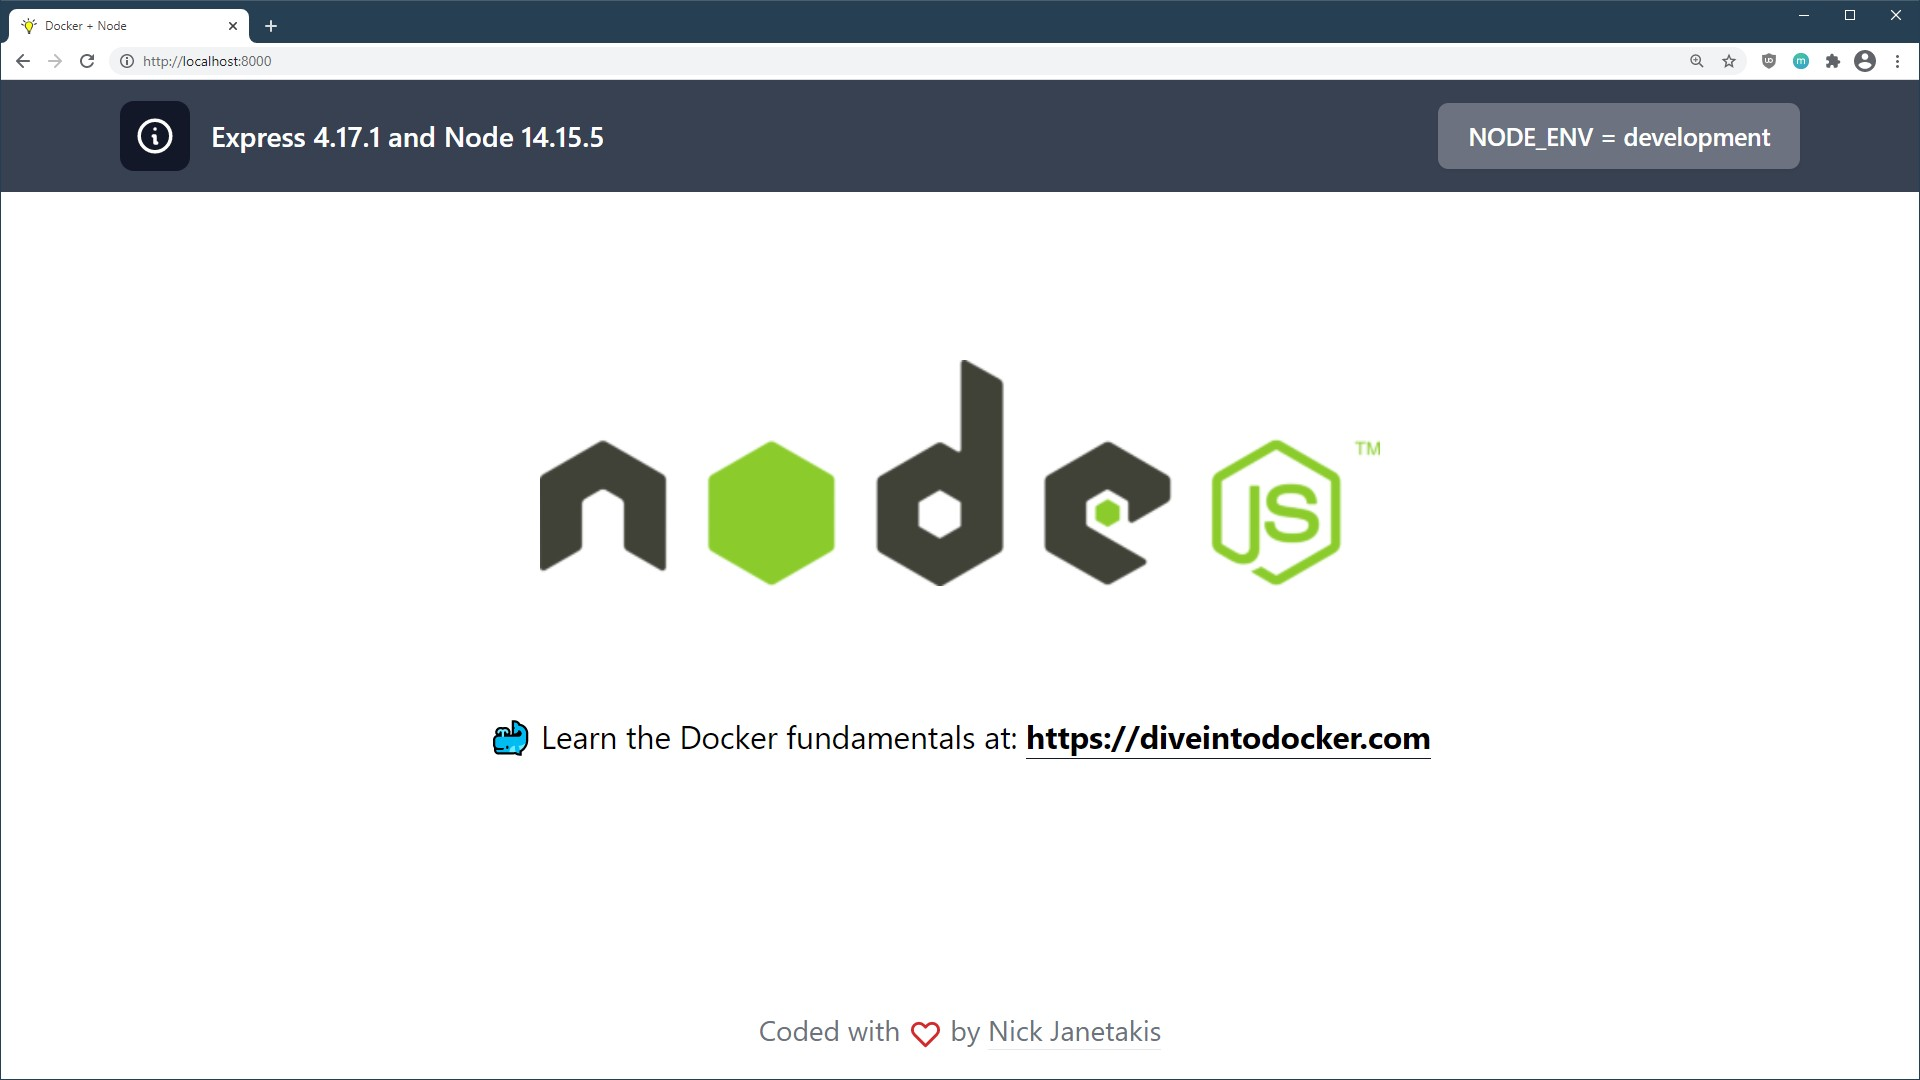
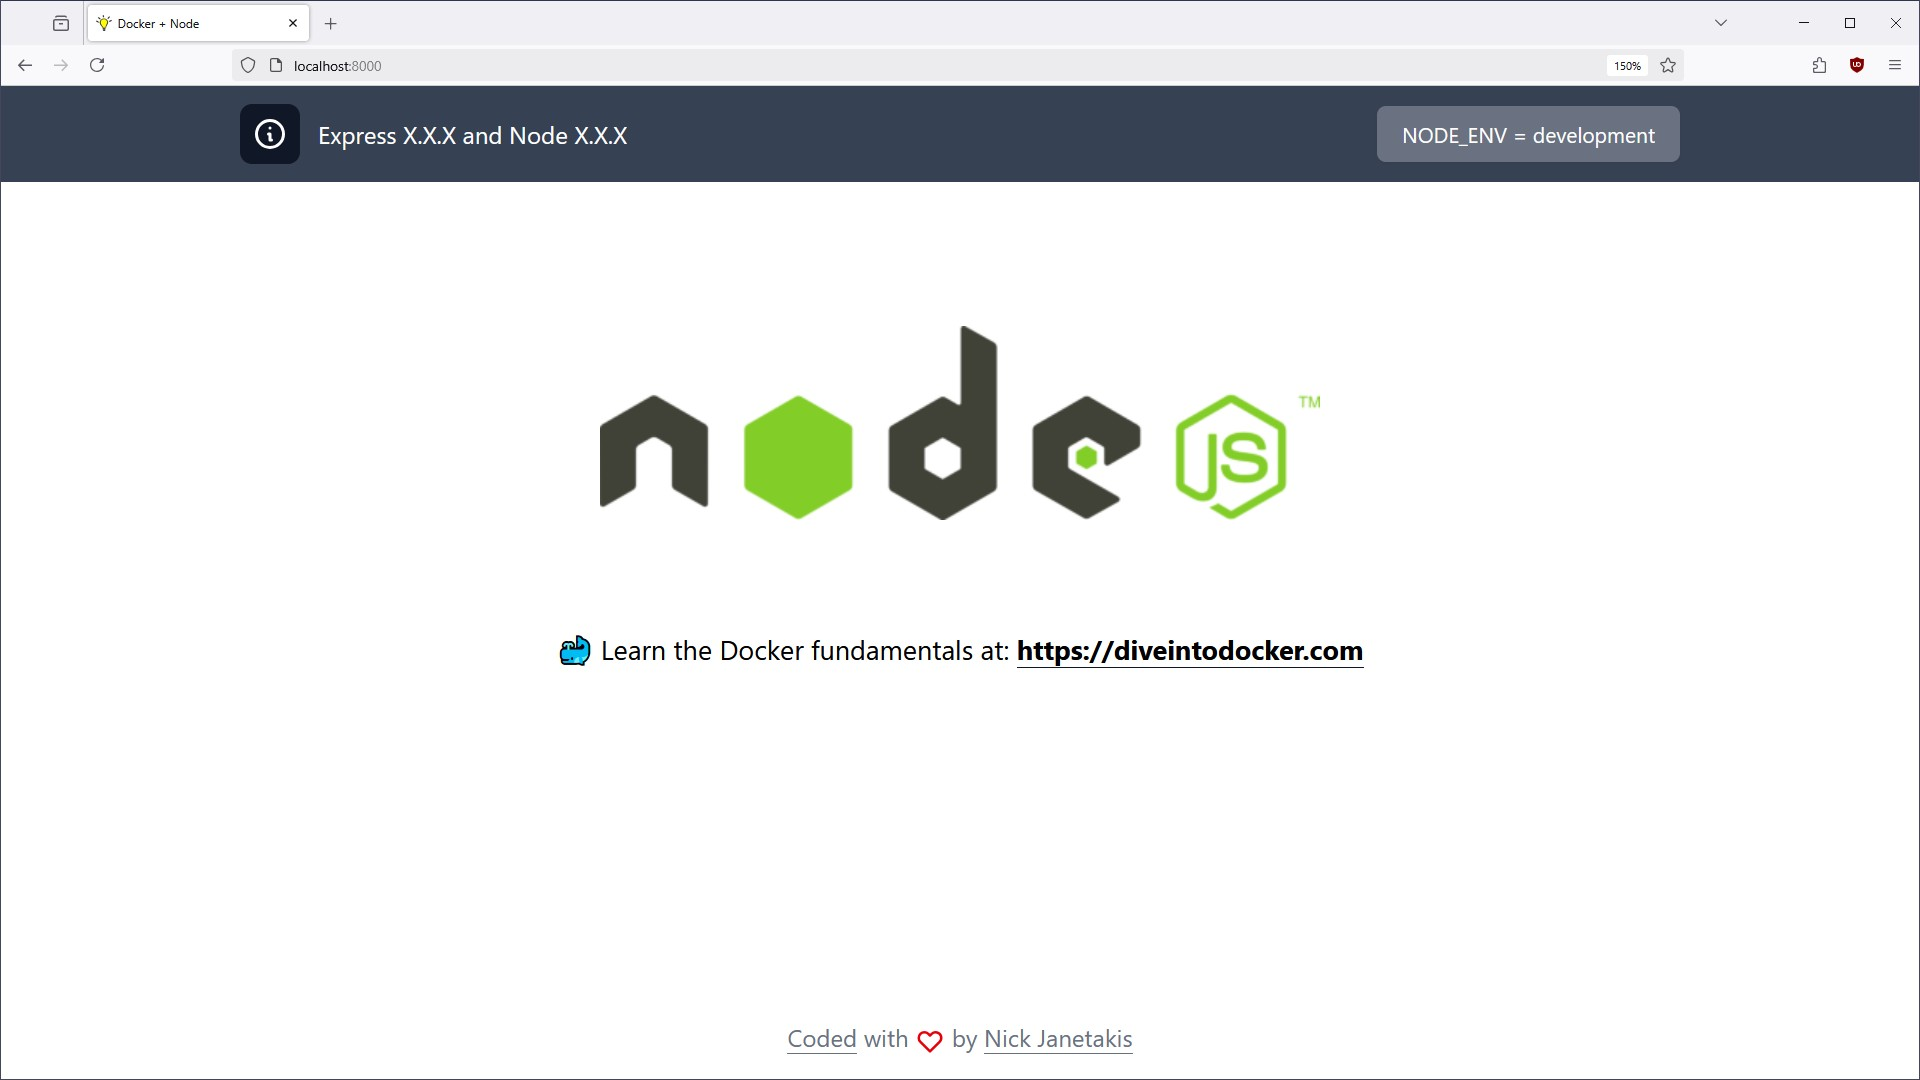
Update screenshot to use version placeholders

diff --git a/README.md b/README.md
@@ -14,8 +14,8 @@ practices](https://nickjanetakis.com/blog/best-practices-around-production-ready
 based on building and deploying dozens of assorted Dockerized web apps since
 late 2014.
 
-**This app is using Express 4.21.2 and Node 22.14.0**. The screenshot doesn't
-get updated every time I bump the versions:
+**This app is using Express 4.21.2 and Node 22.14.0**. The screenshot shows
+`X.X.X` since they get updated regularly:
 
 [![Screenshot](.github/docs/screenshot.jpg)](https://github.com/nickjj/docker-node-example/blob/main/.github/docs/screenshot.jpg?raw=true)
 
